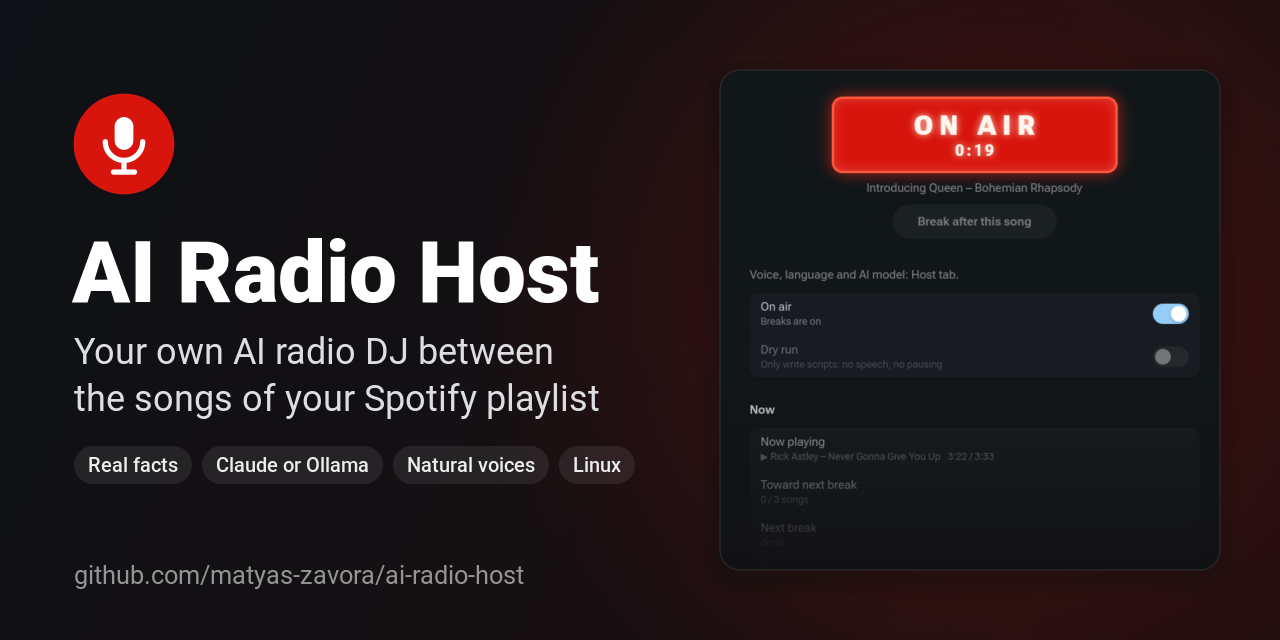
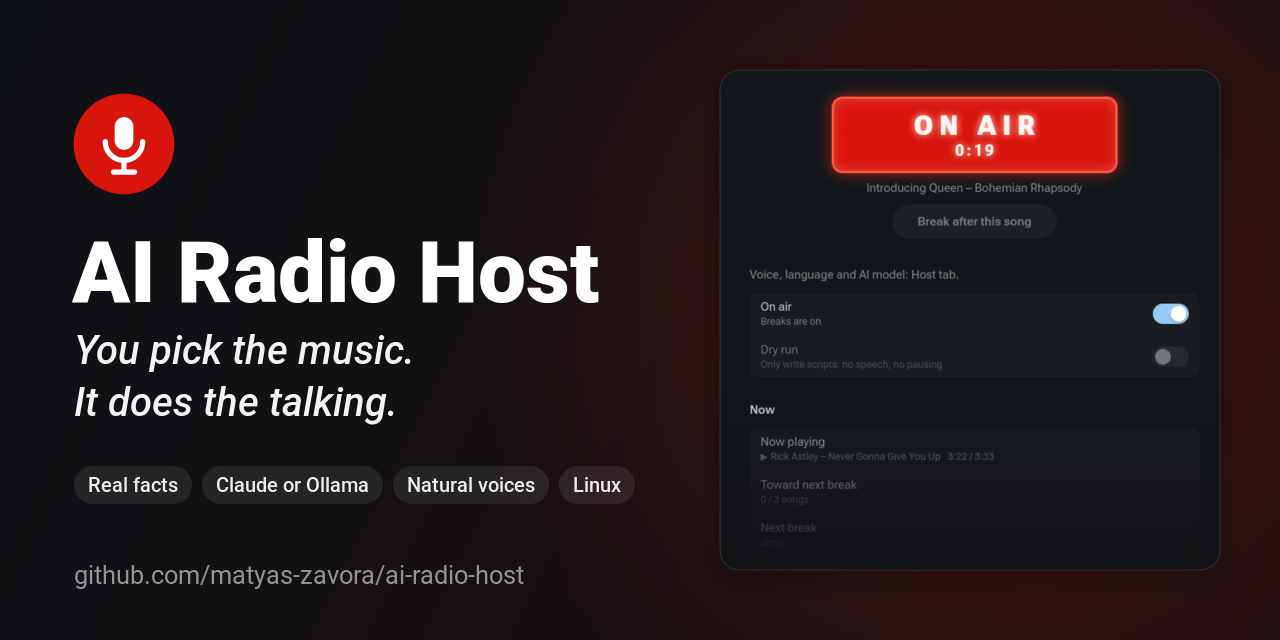
Motto: You pick the music. It does the talking.

Changed region(s): [[0.0625, 0.5312, 0.4688, 0.6562], [0.0625, 0.7188, 0.2812, 0.7812], [0.3125, 0.7188, 0.5, 0.7812]]

diff --git a/radiohost/setup_wizard.py b/radiohost/setup_wizard.py
@@ -105,7 +105,8 @@ class SetupWizard(Adw.Dialog):
     def _welcome(self) -> Adw.NavigationPage:
         status = Adw.StatusPage(
             icon_name="dev.zavoram.RadioHost", title="Welcome to AI Radio Host",
-            description="Every few songs, an AI host introduces the next song in your Spotify "
+            description="You pick the music. It does the talking.\n\n"
+                        "Every few songs, an AI host introduces the next song in your Spotify "
                         "playlist.\n\nSetup takes about 5 minutes. You'll need:\n"
                         "• Spotify Premium\n"
                         "• an Anthropic account with a few dollars of credit "

diff --git a/radiohost/gui.py b/radiohost/gui.py
@@ -380,7 +380,8 @@ class Window(Adw.ApplicationWindow):
     def _build_contact(self):
         page = Adw.PreferencesPage()
         header = Adw.StatusPage(icon_name="dev.zavoram.RadioHost", title="AI Radio Host",
-                                description=f"Version {app_version()} · by Matyáš Závora\n"
+                                description="You pick the music. It does the talking.\n\n"
+                                            f"Version {app_version()} · by Matyáš Závora\n"
                                             "Free and open source (MIT license)")
         g = Adw.PreferencesGroup()
         g.add(header)

diff --git a/README.md b/README.md
@@ -4,7 +4,9 @@
 
 <h1 align="center">AI Radio Host</h1>
 
-<p align="center"><b>Your own AI radio DJ between the songs of your Spotify playlist</b></p>
+<h3 align="center"><i>You pick the music. It does the talking.</i></h3>
+
+<p align="center">A personal AI radio host for your own Spotify playlist, on the Linux desktop</p>
 
 <p align="center">
   <a href="https://github.com/matyas-zavora/ai-radio-host/actions/workflows/tests.yml"><img src="https://github.com/matyas-zavora/ai-radio-host/actions/workflows/tests.yml/badge.svg" alt="Tests"></a>
